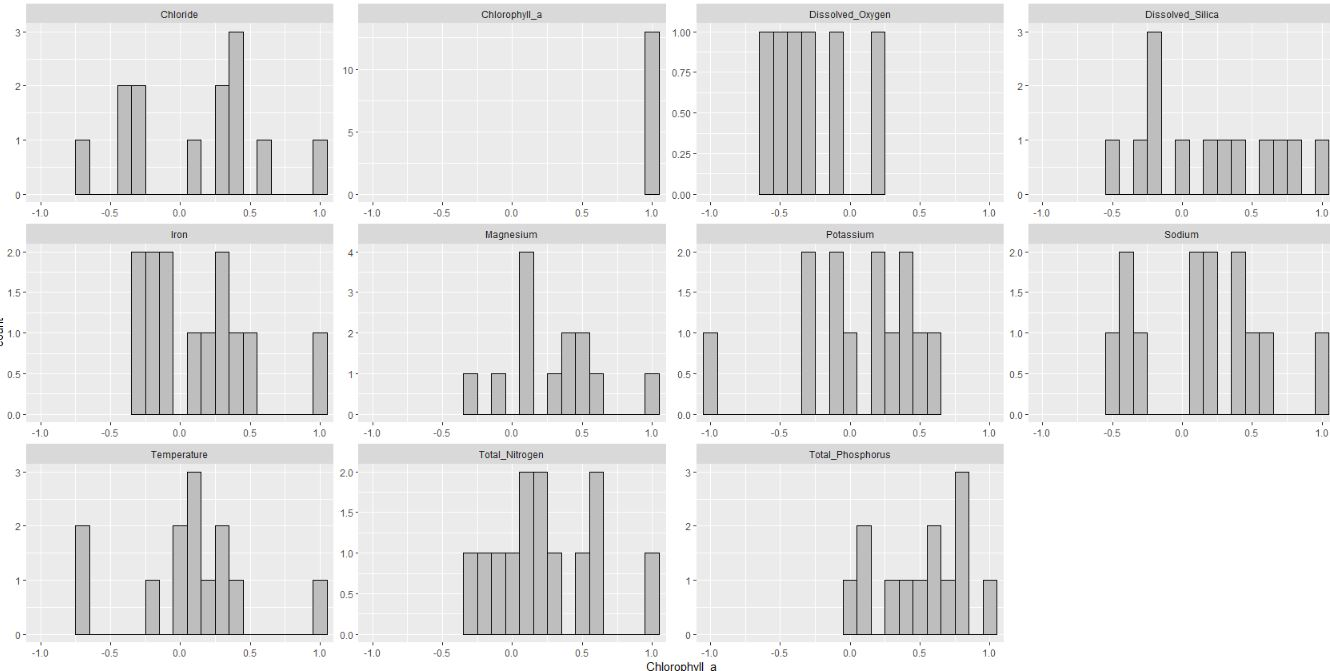
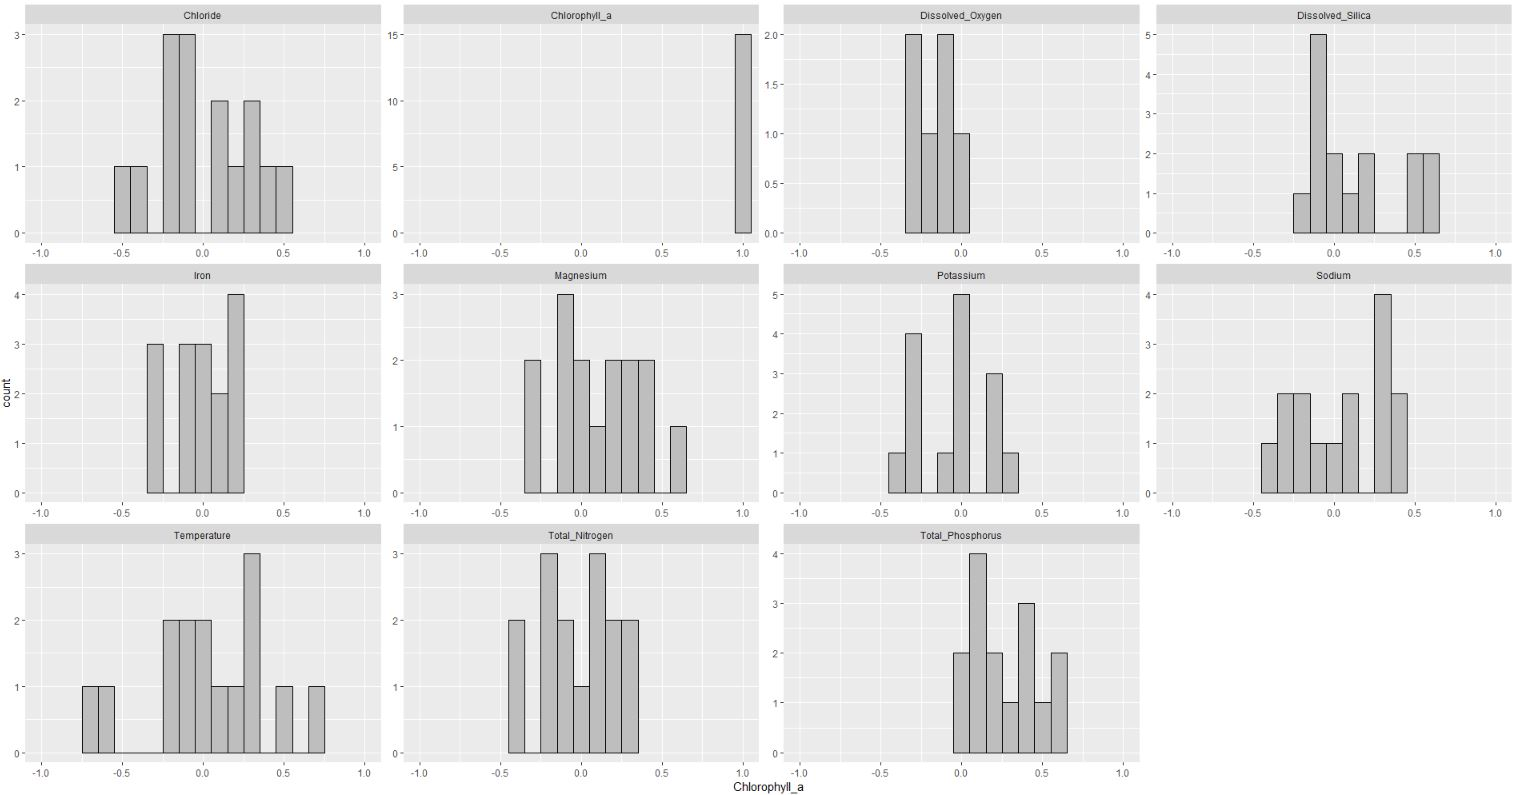
Updated handling of NA's in correlation.

diff --git a/README.md b/README.md
@@ -6,7 +6,7 @@
 
 ### Data Exploration
 - Correlations between various water quality parameters and the amount of chlorophyll.
-The relationship between total phosphorus and chlorophyll is moderately positive (R avg = 0.51). 
+The relationship between total phosphorus and chlorophyll is the most promising. 
 ![Correlations with chlorophyll](Correlations.JPG)
 
 ### Predictions
